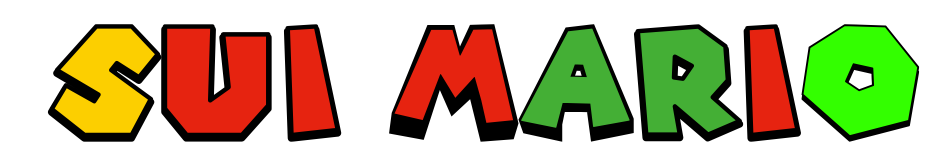
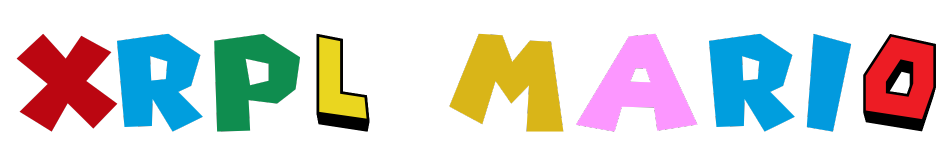
fix

diff --git a/index.html b/index.html
@@ -3,7 +3,7 @@
 
 <head>
 	<meta charset="UTF-8">
-	<title>SUIMARIO</title>
+	<title>XRPL MARIO</title>
 	<meta name="robots" content="max-image-preview:large">
 
 
@@ -779,7 +779,7 @@
 						<div class="elementor-widget-container">
 							<div class="elementor-button-wrapper">
 								<a class="elementor-button elementor-button-link elementor-size-sm"
-									href="https://movepump.com/token/0xb72688e4685bee43f0dc24c5408646b0a9ef14ed655f8d4b25b0599dc75d2640::mario::MARIO">
+									href="https://firstledger.net/">
 									<span class="elementor-button-content-wrapper">
 										<span class="elementor-button-text">buy now</span>
 									</span>
@@ -799,7 +799,7 @@
 			<div class="elementor-element elementor-element-fdf4ba4 elementor-widget elementor-widget-heading"
 				data-id="fdf4ba4" data-element_type="widget" data-widget_type="heading.default">
 				<div class="elementor-widget-container">
-					<h2 class="elementor-heading-title elementor-size-default">CONQUER THE SUI WITH</h2>
+					<h2 class="elementor-heading-title elementor-size-default">CONQUER THE XRPL WITH</h2>
 				</div>
 			</div>
 			<div class="elementor-element elementor-element-e9a7c27 elementor-widget elementor-widget-image"
@@ -822,7 +822,7 @@
 					<div class="elementor-widget-container">
 						<div class="elementor-button-wrapper">
 							<a class="elementor-button elementor-button-link elementor-size-sm elementor-animation-shrink"
-								href="https://movepump.com/token/0xb72688e4685bee43f0dc24c5408646b0a9ef14ed655f8d4b25b0599dc75d2640::mario::MARIO">
+								href="https://firstledger.net/">
 								<span class="elementor-button-content-wrapper">
 									<span class="elementor-button-text">buy now</span>
 								</span>
@@ -835,7 +835,7 @@
 					<div class="elementor-widget-container">
 						<div class="elementor-button-wrapper">
 							<a class="elementor-button elementor-button-link elementor-size-sm elementor-animation-shrink"
-								href="https://movepump.com/token/0xb72688e4685bee43f0dc24c5408646b0a9ef14ed655f8d4b25b0599dc75d2640::mario::MARIO">
+								href="https://dexscreener.com/">
 								<span class="elementor-button-content-wrapper">
 									<span class="elementor-button-text">chart</span>
 								</span>
@@ -853,7 +853,7 @@
 						<div class="elementor-social-icons-wrapper elementor-grid">
 							<span class="elementor-grid-item">
 								<a class="elementor-icon elementor-social-icon elementor-social-icon-telegram-plane elementor-repeater-item-8e0e422"
-									href="https://t.me/Mario_Sui" target="_blank">
+									href="https://t.me/XRPL_Mario" target="_blank">
 									<span class="elementor-screen-only">Telegram-plane</span>
 									<i class="fab fa-telegram-plane"></i> </a>
 							</span>
@@ -866,7 +866,7 @@
 						<div class="elementor-social-icons-wrapper elementor-grid">
 							<span class="elementor-grid-item">
 								<a class="elementor-icon elementor-social-icon elementor-social-icon-x-twitter elementor-repeater-item-a6268a0"
-									href="https://x.com/Sui_Mario" target="_blank">
+									href="https://x.com/XRPL_Mario" target="_blank">
 									<span class="elementor-screen-only">X-twitter</span>
 									<i class="fab fa-x-twitter"></i> </a>
 							</span>
@@ -1433,14 +1433,14 @@
 						<div class="elementor-element elementor-element-53f8904 elementor-widget elementor-widget-heading"
 							data-id="53f8904" data-element_type="widget" data-widget_type="heading.default">
 							<div class="elementor-widget-container">
-								<h2 class="elementor-heading-title elementor-size-default">who is $SUIMARIO</h2>
+								<h2 class="elementor-heading-title elementor-size-default">who is $XMARIO</h2>
 							</div>
 						</div>
 						<div class="elementor-element elementor-element-596a106 elementor-widget elementor-widget-heading"
 							data-id="596a106" data-element_type="widget" data-widget_type="heading.default">
 							<div class="elementor-widget-container">
-								<h2 class="elementor-heading-title elementor-size-default">SUIMARIO, INSPIRED BY
-									EVERYONE'S FAVORITE CHARACTER, SUIMARIO, USES THE POWER OF THE SUI TO BATTLE EVIL
+								<h2 class="elementor-heading-title elementor-size-default">XMARIO, INSPIRED BY
+									EVERYONE'S FAVORITE CHARACTER, XMARIO, USES THE POWER OF THE XRPL TO BATTLE EVIL
 									CREATURES FROM THE DARKEST DEPTHS OF THE UNIVERSE. HE IS A HERO WHO WILL BE
 									REMEMBERED FOREVER! </h2>
 							</div>
@@ -1470,7 +1470,7 @@
 						<div class="elementor-element elementor-element-e52c00e elementor-widget elementor-widget-heading"
 							data-id="e52c00e" data-element_type="widget" data-widget_type="heading.default">
 							<div class="elementor-widget-container">
-								<h2 class="elementor-heading-title elementor-size-default">WHAT IS $SUIMARIO'S GOAL?
+								<h2 class="elementor-heading-title elementor-size-default">WHAT IS $XMARIO'S GOAL?
 								</h2>
 							</div>
 						</div>
@@ -1479,7 +1479,7 @@
 							<div class="elementor-widget-container">
 								<h2 class="elementor-heading-title elementor-size-default">HIS GOAL IS TO DIVE DEEP INTO
 									YOUR MEMORIES AND REMIND YOU OF THE GREAT TIMES YOU HAD WITH MARIO. HE SEEKS YOUR
-									SUPPORT TO FIGHT AND CONQUER. SUIMARIO IS DESTINED TO REACH THE ALL-TIME HIGHS OF
+									SUPPORT TO FIGHT AND CONQUER. XMARIO IS DESTINED TO REACH THE ALL-TIME HIGHS OF
 									EVERY MEME COIN CHART AND MAKE EVERYONE REMEMBER JUST HOW GREAT MARIO IS!
 								</h2>
 							</div>
@@ -1495,14 +1495,14 @@
 						<div class="elementor-element elementor-element-5c37b63 elementor-widget elementor-widget-heading"
 							data-id="5c37b63" data-element_type="widget" data-widget_type="heading.default">
 							<div class="elementor-widget-container">
-								<h2 class="elementor-heading-title elementor-size-default">THE FUTURE OF $SUIMARIO!</h2>
+								<h2 class="elementor-heading-title elementor-size-default">THE FUTURE OF $XMARIO!</h2>
 							</div>
 						</div>
 						<div class="elementor-element elementor-element-dd4ca0d elementor-widget elementor-widget-heading"
 							data-id="dd4ca0d" data-element_type="widget" data-widget_type="heading.default">
 							<div class="elementor-widget-container">
-								<h2 class="elementor-heading-title elementor-size-default">SUIMARIO WILL STRIVE TO
-									BECOME THE MOST WELL-KNOWN CRYPTO MEME CHARACTER ON THE SUI BLOCKCHAIN AND, SOON
+								<h2 class="elementor-heading-title elementor-size-default">XMARIO WILL STRIVE TO
+									BECOME THE MOST WELL-KNOWN CRYPTO MEME CHARACTER ON THE XRPL BLOCKCHAIN AND, SOON
 									AFTER, THE ENTIRE CRYPTO MEME WORLD. HE WON'T LET ANYTHING OR ANYONE STAND IN HIS
 									WAY. JOIN HIM IN SHAPING THE FUTURE OF THE MEME GALAXY!
 								</h2>
@@ -1730,7 +1730,7 @@
 								<div class="elementor-image-box-wrapper">
 									<div class="elementor-image-box-content">
 										<h3 class="elementor-image-box-title">Initial supply</h3>
-										<p class="elementor-image-box-description">10b</p>
+										<p class="elementor-image-box-description">100M</p>
 									</div>
 								</div>
 							</div>
@@ -1752,7 +1752,7 @@
 								<div class="elementor-image-box-wrapper">
 									<div class="elementor-image-box-content">
 										<h3 class="elementor-image-box-title">CIRC. SUPPLY</h3>
-										<p class="elementor-image-box-description">10b</p>
+										<p class="elementor-image-box-description">100M</p>
 									</div>
 								</div>
 							</div>
@@ -1833,10 +1833,11 @@
 						<div class="elementor-element elementor-element-5dc7082 elementor-widget elementor-widget-heading"
 							data-id="5dc7082" data-element_type="widget" data-widget_type="heading.default">
 							<div class="elementor-widget-container">
-								<h2 class="elementor-heading-title elementor-size-default">Download the Sui Wallet
-									extension from the official website and install it in your Chrome browser. Fund your
-									wallet by transferring SUI from an exchange like Binance, Bybit, MEXS, or from
-									another wallet you already have.</h2>
+								<h2 class="elementor-heading-title elementor-size-default">Embrace the future of money
+									by visiting <a href="https://firstledger.net/" target="_blank"
+										rel="noopener noreferrer">First
+										Ledger</a> and building a personalized wallet to store your digital assets
+									securely.</h2>
 							</div>
 						</div>
 					</div>
@@ -1857,7 +1858,9 @@
 
 										<h3 class="elementor-icon-box-title">
 											<span>
-												CONNECT TO MovePump </span>
+												CONNECT TO <a href="https://firstledger.net/" target="_blank"
+													rel="noopener noreferrer">First
+													Ledger</a> </span>
 										</h3>
 
 
@@ -1869,9 +1872,9 @@
 						<div class="elementor-element elementor-element-a93c2c3 elementor-widget elementor-widget-heading"
 							data-id="a93c2c3" data-element_type="widget" data-widget_type="heading.default">
 							<div class="elementor-widget-container">
-								<h2 class="elementor-heading-title elementor-size-default">Connect your Sui Wallet
-									Wallet
-									to https://movepump.com/, then locate the official $SUIMARIO Meme Coin.
+								<h2 class="elementor-heading-title elementor-size-default">Connect your Wallet
+
+
 
 
 								</h2>
@@ -1899,7 +1902,7 @@
 
 										<h3 class="elementor-icon-box-title">
 											<span>
-												BUY $SUIMARIO </span>
+												BUY $XMARIO </span>
 										</h3>
 
 
@@ -1912,10 +1915,11 @@
 							data-id="f2c762b" data-element_type="widget" data-widget_type="heading.default">
 							<div class="elementor-widget-container">
 								<h2 class="elementor-heading-title elementor-size-default">Once you have found the
-									official $SUIMARIO Meme Coin on the MovePump website or by using the 'BUY' buttons
+									official $XMARIO Meme Coin on the First Ledger website or by using the 'BUY NOW'
+									buttons
 									on
-									our website, enter the amount of SUI you wish to use for your purchase. Then, simply
-									click 'BUY'.</h2>
+									our website, enter the amount of XRP you wish to use for your purchase. Then, simply
+									click 'BUY XMARIO'.</h2>
 							</div>
 						</div>
 					</div>
@@ -1949,8 +1953,9 @@
 							data-id="1babed1" data-element_type="widget" data-widget_type="heading.default">
 							<div class="elementor-widget-container">
 								<h2 class="elementor-heading-title elementor-size-default">Verify that you have
-									purchased the correct amount of $SUIMARIO coins by either selecting the 'SELL'
-									option to check your available balance or by reviewing your Sui Wallet Wallet.</h2>
+									purchased the correct amount of $XMARIO coins by either selecting the 'SELL'
+									option to check your available balance or by reviewing your First Ledger Wallet.
+								</h2>
 							</div>
 						</div>
 					</div>
@@ -1980,7 +1985,7 @@
 										</svg> </button>
 								</div>
 								<textarea selection-target class="ctc-copy-content"
-									style="display: none;">0xb72688e4685bee43f0dc24c5408646b0a9ef14ed655f8d4b25b0599dc75d2640::mario::MARIO</textarea>
+									style="display: none;">TBA</textarea>
 							</div>
 						</div>
 					</div>
@@ -1992,11 +1997,11 @@
 			<div class="elementor-element elementor-element-8df5fa8 elementor-widget elementor-widget-heading"
 				data-id="8df5fa8" data-element_type="widget" data-widget_type="heading.default">
 				<div class="elementor-widget-container">
-					<p class="elementor-heading-title elementor-size-default"> Please note that $SUIMARIO does not
+					<p class="elementor-heading-title elementor-size-default"> Please note that $XMARIO does not
 						constitute an investment. It is a meme coin created for entertainment purposes only. The value
-						of $SUIMARIO can be highly volatile, and there is a risk of losing your money. Always do your
+						of $XMARIO can be highly volatile, and there is a risk of losing your money. Always do your
 						research and consider consulting with a financial advisor before engaging in any cryptocurrency
-						transactions. $SUIMARIO is designed to make people laugh and remember the good old days with
+						transactions. $XMARIO is designed to make people laugh and remember the good old days with
 						Mario. No financial gain is expected from this. Please participate at your own risk.</p>
 				</div>
 			</div>
@@ -2005,7 +2010,8 @@
 				<div class="elementor-element elementor-element-adc8c64 elementor-widget elementor-widget-heading"
 					data-id="adc8c64" data-element_type="widget" data-widget_type="heading.default">
 					<div class="elementor-widget-container">
-						<p class="elementor-heading-title elementor-size-default">All Rights Reserved for $Suimario 2024
+						<p class="elementor-heading-title elementor-size-default">All Rights Reserved for $XRPLMARIO
+							2024
 						</p>
 					</div>
 				</div>
